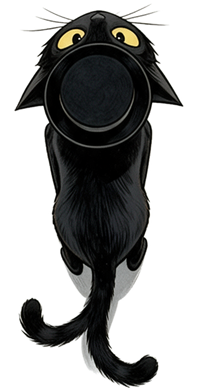
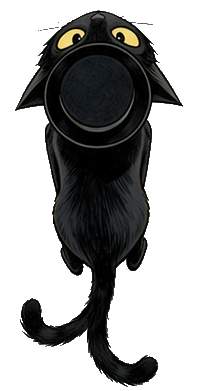
Quest 24: Runde 4: Glut mittig, Bossgröße stabil, Katze ein Schwanz, flüssigerer Kampf, animiertes Schlusslogo, dunklerer Abspann
Claude-Session: https://claude.ai/code/session_013ksHH1RN3knNHjnsFznGtM

diff --git a/battle.js b/battle.js
@@ -101,7 +101,7 @@ async function battle(F,key,tries){const ov=$('#battle');ov.innerHTML='';ov.clas
  if(F.phases&&B.phI){const f=B.foes.find(x=>x.boss);if(f)f.hp=Math.max(1,Math.ceil(F.phases[B.phI-1]*f.max)-2)}
  if(st.hero.skills.includes('waldsegen'))B.party.forEach(p=>p.hp=Math.min(p.max,p.hp+3));
  ov.innerHTML='<div class="bt-bg" style="background-image:url('+A+'img/'+F.bg+'.jpg)"></div><div class="bt-top"><div class="bt-t">'+esc(F.t)+'</div><div class="bt-r" id="bt-r"></div></div><div class="bt-foes" id="bt-foes"></div><div class="bt-log" id="bt-log"></div><div class="bt-party" id="bt-party"></div><div class="bt-act" id="bt-act"></div>';
- preloadSprites();sfx('schwert_ziehen');if(tries&&TIPS[key])blog('Tipp: '+TIPS[key],1);
+ preloadSprites();sfx('schwert_ziehen');setTimeout(()=>{if(B){B._fszLock=0;fitFoes(true);B._fszLock=1}},700);if(tries&&TIPS[key])blog('Tipp: '+TIPS[key],1);
  if(F.tut&&!st.flags.tut_done)await tutorial();
  while(true){B.round++;$('#bt-r').textContent='Runde '+B.round;planFoes();render();
   for(const u of B.party){if(u.hp<=0)continue;if(u.web){u.web=0;blog(u.n+' hängt im Netz fest und setzt aus.');render();await sleep(900);continue}
@@ -118,10 +118,22 @@ const TIPS={ratten:'Ratten haben wenig Lebenspunkte. Ein Treffer reicht oft.',mo
 function blog(t,tip){const l=$('#bt-log');if(!l)return;const p=el('div',tip?'tip':'',esc(t));l.prepend(p);while(l.children.length>3)l.lastChild.remove()}
 function planFoes(){B.foes.forEach(f=>{if(f.hp<=0)return;if(f.warned){f.intent=f.warned;f.warned=null;return}
  const a=f.acts[(B.round+f.i)%f.acts.length];if(a.warn&&!f.intent?.warn){f.intent={n:'holt aus',pre:a};f.warned=a;return}f.intent=a})}
-function render(){const fo=$('#bt-foes');fo.innerHTML='';fo.classList.toggle('many',B.foes.length>=3);B.foes.forEach(f=>{const d=el('div','bt-f'+(f.hp<=0?' down':'')+(f.boss?' boss':''),'<div class="bt-fi" style="background-image:url('+A+'img/'+f.img+'_'+(f.hp<=0?3:(f.fr||0))+'.png)"></div><div class="bt-hp"><i style="width:'+Math.max(0,f.hp/f.max*100)+'%"></i></div><div class="bt-fn">'+esc(f.n)+' <span class="el el-'+f.el+'"></span></div>'+(f.hp>0&&f.intent?'<div class="bt-int">'+esc(f.intent.pre?f.intent.pre.n+' kommt':f.intent.n)+'</div>':''));d.dataset.i=f.i;fo.appendChild(d)});
- fitFoes();const pa=$('#bt-party');pa.innerHTML='';const vw=Math.min(innerWidth,480);pa.style.setProperty('--pw',Math.round(Math.min(150,innerHeight*.17/1.35*1.35,(vw-16)/(B.party.length+(B.party.some(p=>p.id==='gr')?.25:0))*(B.party.length>2?1.18:1)-6))+'px');B.party.forEach((u,k)=>{const pose=u.hp<=0?3:(u.pose||0);const d=el('div','bt-u'+(u.id==='gr'?' big':'')+(u.id==='hu'||u.id==='zi'?' small':'')+(u.hp<=0?' down':'')+(B.cur===u?' cur':'')+(pose===1?' atk':'')+(pose===2?' hurt':''),'<div class="bt-sp" style="background-image:url('+spriteSrc(u,pose)+')"></div><div class="bt-hp p"><i style="width:'+Math.max(0,u.hp/u.max*100)+'%"></i></div><div class="bt-un"><span class="bt-mini" style="background-image:url('+(u.hero?heroImg():A+'img/p_'+u.id+'_'+(u.hp<=0?8:(u.face??0))+'.jpg')+')"></span>'+u.hp+'/'+u.max+'</div>');d.dataset.k=k;pa.appendChild(d)});markPick()}
+// Neuzeichnen ohne den DOM jedes Mal neu zu bauen: Elemente bleiben, nur Werte ändern sich (flüssiger auf dem Handy)
+function setBI(e,u){if(e._u!==u){e._u=u;e.style.backgroundImage='url('+u+')'}}
+function render(){const fo=$('#bt-foes');fo.classList.toggle('many',B.foes.length>=3);
+ B.foes.forEach(f=>{let d=fo.querySelector('.bt-f[data-i="'+f.i+'"]');
+  if(!d){d=el('div','bt-f'+(f.boss?' boss':''),'<div class="bt-fi"></div><div class="bt-hp"><i></i></div><div class="bt-fn">'+esc(f.n)+' <span class="el el-'+f.el+'"></span></div><div class="bt-int"></div>');d.dataset.i=f.i;fo.appendChild(d)}
+  d.classList.toggle('down',f.hp<=0);setBI(d.querySelector('.bt-fi'),A+'img/'+f.img+'_'+(f.hp<=0?3:(f.fr||0))+'.png');d.querySelector('.bt-hp i').style.width=Math.max(0,f.hp/f.max*100)+'%';
+  const it=d.querySelector('.bt-int');const txt=f.hp>0&&f.intent?(f.intent.pre?f.intent.pre.n+' kommt':f.intent.n):'';if(it.textContent!==txt)it.textContent=txt;it.style.display=txt?'':'none'});
+ fitFoes();const pa=$('#bt-party');const vw=Math.min(innerWidth,480);const pw=Math.round(Math.min(150,innerHeight*.17/1.35*1.35,(vw-16)/(B.party.length+(B.party.some(p=>p.id==='gr')?.25:0))*(B.party.length>2?1.18:1)-6))+'px';if(pa._pw!==pw){pa._pw=pw;pa.style.setProperty('--pw',pw)}
+ B.party.forEach((u,k)=>{const pose=u.hp<=0?3:(u.pose||0);let d=pa.querySelector('.bt-u[data-k="'+k+'"]');
+  if(!d){d=el('div','bt-u'+(u.id==='gr'?' big':'')+(u.id==='hu'||u.id==='zi'?' small':''),'<div class="bt-sp"></div><div class="bt-hp p"><i></i></div><div class="bt-un"><span class="bt-mini"></span><b></b></div>');d.dataset.k=k;pa.appendChild(d)}
+  d.classList.toggle('down',u.hp<=0);d.classList.toggle('cur',B.cur===u);d.classList.toggle('atk',pose===1);d.classList.toggle('hurt',pose===2);
+  setBI(d.querySelector('.bt-sp'),spriteSrc(u,pose));d.querySelector('.bt-hp i').style.width=Math.max(0,u.hp/u.max*100)+'%';
+  setBI(d.querySelector('.bt-mini'),u.hero?heroImg():A+'img/p_'+u.id+'_'+(u.hp<=0?8:(u.face??0))+'.jpg');const t=u.hp+'/'+u.max;const bb=d.querySelector('.bt-un b');if(bb.textContent!==t)bb.textContent=t});markPick()}
 // Rückansicht im Kampf: 0 bereit, 1 Angriff, 2 getroffen, 3 besiegt
-function fitFoes(){const fo=$('#bt-foes');if(!fo)return;const n=Math.max(1,B.foes.length);const h=fo.clientHeight,w=fo.clientWidth;if(!h)return;const byH=h-86,byW=(w-12)/n*.92;const big=n===1&&B.foes[0].boss;fo.style.setProperty('--fsz',Math.round(Math.max(80,Math.min(byH,big?(w-8)*.98:byW,big?420:300)))+'px')}
+function fitFoes(force){const fo=$('#bt-foes');if(!fo)return;if(B&&B._fszLock&&B._fsz&&!force&&B._fszN===B.foes.length){fo.style.setProperty('--fsz',B._fsz);return}const n=Math.max(1,B.foes.length);const h=fo.clientHeight,w=fo.clientWidth;if(!h)return;const byH=h-86,byW=(w-12)/n*.92;const big=n===1&&B.foes[0].boss;const v=Math.round(Math.max(80,Math.min(byH,big?(w-8)*.98:byW,big?420:300)))+'px';fo.style.setProperty('--fsz',v);if(B){B._fsz=v;B._fszN=B.foes.length}}
+addEventListener('resize',()=>{if(B)fitFoes(true)});
 function spriteSrc(u,p){return A+'img/b_'+(u.hero?st.hero.cls+'_'+st.hero.look:u.id)+'_'+p+'.png'}
 function poseFor(u,p,ms){u.pose=p;clearTimeout(u._pt);if(B)render();u._pt=setTimeout(()=>{u.pose=0;if(B)render()},ms)}
 const PRE=[];function preImg(src){const i=new Image();i.decoding='async';i.src=src;PRE.push(i);if(PRE.length>200)PRE.shift()}

diff --git a/bossgames.js b/bossgames.js
@@ -80,9 +80,9 @@ GAMES.p_schatten=()=>new Promise(async done=>{const W3=phWho(3);const fast=W3.ri
  const IW=PS_IMG[0],IH=PS_IMG[1];const P=PS_PATH;const L=[0];for(let i=1;i<P.length;i++)L.push(L[i-1]+Math.hypot((P[i][0]-P[i-1][0])*IW,(P[i][1]-P[i-1][1])*IH));const TOT=L[L.length-1];
  const map=(u,v)=>{const W=o.clientWidth,H=o.clientHeight,sc=Math.max(W/IW,H/IH);return [(W-IW*sc)/2+u*IW*sc,(H-IH*sc)/2+v*IH*sc,sc]};
  const at=q=>{const d=q*TOT;let i=1;while(i<L.length-1&&L[i]<d)i++;const f=(d-L[i-1])/(L[i]-L[i-1]||1);const u=P[i-1][0]+(P[i][0]-P[i-1][0])*f,v=P[i-1][1]+(P[i][1]-P[i-1][1])*f;const ang=Math.atan2((P[i][1]-P[i-1][1])*IH,(P[i][0]-P[i-1][0])*IW)*180/Math.PI;return [u,v,ang]};
- const top=W3.w==='na';const cat=el('div','ps2-cat'+(top?' top':''),'<img src="'+A+'img/'+(top?'na_top':'r_'+(W3.w==='held'?st.hero.cls+'_'+st.hero.look:W3.w)+'_0')+'.png" alt="">');o.appendChild(cat);const ci=cat.firstChild;
+ const top=W3.w==='na';const csrc=A+'img/'+(top?'na_top':'r_'+(W3.w==='held'?st.hero.cls+'_'+st.hero.look:W3.w)+'_0')+'.png';const cat=el('div','ps2-cat'+(top?' top':''),top?'<div class="ps2-c"><img class="t" src="'+csrc+'" alt=""><img class="b" src="'+csrc+'" alt=""></div>':'<div class="ps2-c"><img src="'+csrc+'" alt=""></div>');o.appendChild(cat);const ci=cat.firstChild;
  const goal=el('div','ps2-goal');o.appendChild(goal);const alarm=el('div','ps2-alarm','');o.appendChild(alarm);
- const WALK=[0,1,2,3].map(i=>A+'img/na_walk_'+i+'.png');let walkOk=false;if(top){const ti=new Image();ti.onload=()=>{walkOk=true;WALK.slice(1).forEach(u=>{const x=new Image();x.src=u})};ti.src=WALK[0]}
+
  const eg=o.querySelector('.ps2-eyeglow');
  const place=()=>{const [x,y]=map(PS_EYE[0],PS_EYE[1]);eg.style.left=x+'px';eg.style.top=y+'px';const g=map(P[P.length-1][0],P[P.length-1][1]);goal.style.left=g[0]+'px';goal.style.top=g[1]+'px'};place();addEventListener('resize',place);
  const btn=el('div','ps2-hold','Gedrückt halten zum Schleichen');o.appendChild(btn);
@@ -92,10 +92,10 @@ GAMES.p_schatten=()=>new Promise(async done=>{const W3=phWho(3);const fast=W3.ri
   if(state==='zu'&&el0>dur){state='warn';tState=t;o.classList.add('warn');sfx('drachenknurren',.8);alarm.textContent='Er regt sich …';try{navigator.vibrate&&navigator.vibrate(80)}catch(e){}}
   else if(state==='warn'&&el0>.9/fast){state='auf';tState=t;o.classList.remove('warn');o.classList.add('auf');sfx('drache',.5);alarm.textContent='Auge auf! Nicht bewegen!';try{navigator.vibrate&&navigator.vibrate([60,40,60])}catch(e){}}
   else if(state==='auf'&&el0>1.4){state='zu';tState=t;dur=(1.6+Math.random()*1.8)/fast;o.classList.remove('auf');alarm.textContent=''}
-  if(hold){pos+=dt*.075;fr++;if(walkOk&&fr%7===0)ci.src=WALK[(fr/7|0)%4];
+  if(hold){pos+=dt*.075;fr++;
    if(state==='auf'){caught++;hold=false;btn.classList.remove('on');pos=Math.max(0,pos-.15);sfx('katze',.6);toast(['Erwischt! Zurück in den Schatten.','Fast! Noch mal leise.','Er blinzelt nur. Weiter.'][Math.min(2,caught-1)],1400);o.classList.add('hit');setTimeout(()=>o.classList.remove('hit'),400)}}
   pos=Math.min(1,pos);const [u,v,ang]=at(pos);const [x,y,sc]=map(u,v);const sz=Math.max(72,Math.min(110,IW*sc*.1));
-  cat.style.width=sz+'px';cat.style.transform='translate('+x+'px,'+y+'px) translate(-50%,-50%) rotate('+(top?ang+90:0)+'deg)';ci.style.transform=hold?'translateX('+(Math.sin(fr*.25)*2)+'px) rotate('+(Math.sin(fr*.25)*4)+'deg)':'none';if(!hold&&walkOk&&ci.src!==WALK[1]&&state!=='zu')ci.src=WALK[1];
+  cat.style.width=sz+'px';cat.style.transform='translate('+x+'px,'+y+'px) translate(-50%,-50%) rotate('+(top?ang+90:0)+'deg)';cat.classList.toggle('walk',hold);
   cat.classList.toggle('hide',!hold&&state!=='zu');bar(o,'Weg zum Herzen',pos);
   if(pos>=1){run=false;removeEventListener('pointerup',up);removeEventListener('pointercancel',up);removeEventListener('resize',place);phEnd(o,'Geschafft. Der Schattenschlüssel öffnet die Kruste über dem Herzen.').then(()=>done(Math.max(.3,1-caught*.2)));return}
   requestAnimationFrame(tick)};requestAnimationFrame(tick)});

diff --git a/style.css b/style.css
@@ -920,3 +920,36 @@ img{display:block;max-width:100%}
 .logo-end.gone{opacity:0}
 @keyframes logoIn{0%{opacity:0;transform:scale(.86)}35%{opacity:1}100%{opacity:1;transform:scale(1)}}
 @keyframes fadeInL{to{opacity:1}}
+/* Nachtigall von oben: Körper und Schwanz getrennt, der Schwanz pendelt beim Schleichen */
+.ps2-c{position:relative}
+.ps2-cat img{display:block;width:100%}
+.ps2-cat.top .ps2-c img{position:absolute;left:0;top:0}
+.ps2-cat.top .ps2-c{aspect-ratio:154/299}
+.ps2-cat.top img.b{clip-path:inset(0 0 37% 0)}
+.ps2-cat.top img.t{clip-path:inset(60% 0 0 0);transform-origin:50% 62%;animation:psTail 2.4s ease-in-out infinite}
+.ps2-cat.walk.top img.t{animation-duration:.9s}
+.ps2-cat.walk .ps2-c{animation:psStep .45s ease-in-out infinite}
+@keyframes psTail{0%,100%{transform:rotate(-10deg)}50%{transform:rotate(12deg)}}
+@keyframes psStep{0%,100%{transform:translateX(-1.5px) rotate(-3deg)}50%{transform:translateX(1.5px) rotate(3deg)}}
+.ps2-cat .ps2-c{filter:drop-shadow(0 0 2px #fff) drop-shadow(0 0 3px rgba(255,240,200,.9)) drop-shadow(0 6px 6px rgba(0,0,0,.85))}
+.ps2-cat img{filter:none!important}
+/* Animiertes Logo am Schluss */
+.logo-end{overflow:hidden}
+.logo-end .le-lg{width:min(90vw,480px);opacity:0;transform:scale(.8) translateY(10px);animation:leIn 1.6s cubic-bezier(.2,1,.3,1) .2s forwards;filter:drop-shadow(0 0 0 rgba(255,190,80,0)) drop-shadow(0 8px 14px #000);transition:filter 1.2s}
+.logo-end.lit .le-lg{filter:drop-shadow(0 0 26px rgba(255,190,80,.7)) drop-shadow(0 8px 14px #000)}
+.logo-end .lg-fl,.logo-end .lg-glow{opacity:0;transition:opacity .6s}
+.logo-end.lit .lg-fl,.logo-end.lit .lg-glow{opacity:1}
+.logo-end .lg-dr{opacity:0;animation:leDr 1.4s ease .9s forwards,drbreath 3.6s ease-in-out 2.3s infinite}
+@keyframes leIn{to{opacity:1;transform:scale(1) translateY(0)}}
+@keyframes leDr{from{opacity:0;transform:scale(.92)}to{opacity:1;transform:scale(1)}}
+.le-rays{position:absolute;left:50%;top:45%;width:240vmax;height:240vmax;translate:-50% -50%;background:repeating-conic-gradient(from 0deg,rgba(255,206,110,.22) 0 6deg,transparent 6deg 18deg);-webkit-mask-image:radial-gradient(circle,#000 0,#000 6%,transparent 34%);mask-image:radial-gradient(circle,#000 0,#000 6%,transparent 34%);opacity:0;transition:opacity 1.6s;animation:ttlspin 40s linear infinite}
+.logo-end.lit .le-rays{opacity:1}
+.le-emb{position:absolute;inset:0;pointer-events:none}
+.le-emb i{position:absolute;bottom:-10px;border-radius:50%;background:#ffcf6a;box-shadow:0 0 8px #ff9a2a,0 0 2px #fff;animation:ember 4s linear infinite}
+.logo-end p{position:relative}
+/* Bilder hinter dem Abspann dunkler, damit die Schrift hervorsticht */
+.credits{background:rgba(0,0,0,.58)}
+.logo-end .lg img{max-width:none;filter:none}
+.logo-end .lg .lg-base{width:100%;animation:none}
+.logo-end .lg .lg-dr{width:100%}
+.logo-end .lg .lg-fl{width:8.9%;animation:lgflick 1.3s ease-in-out infinite}

diff --git a/index.html b/index.html
@@ -8,7 +8,7 @@
 <meta name="robots" content="noindex">
 <link rel="preconnect" href="https://fonts.googleapis.com"><link rel="preconnect" href="https://fonts.gstatic.com" crossorigin>
 <link href="https://fonts.googleapis.com/css2?family=Grenze+Gotisch:wght@500;700;800&family=Alegreya:ital,wght@0,400;0,500;0,700;1,400&family=Alegreya+SC:wght@500;700&display=swap" rel="stylesheet">
-<link rel="stylesheet" href="style.css?v=1794095583">
+<link rel="stylesheet" href="style.css?v=1794097808">
 </head>
 <body>
 
@@ -58,23 +58,23 @@
 <div id="sheet" class="ovl sheet"></div>
 <div id="toast" class="toast"></div>
 
-<script src="gate.js?v=1794095583"></script>
-<script src="engine.js?v=1794095583"></script>
-<script src="scene.js?v=1794095583"></script>
-<script src="dice.js?v=1794095583"></script>
-<script src="items.js?v=1794095583"></script>
-<script src="battle.js?v=1794095583"></script>
-<script src="ui.js?v=1794095583"></script>
-<script src="slyr.js?v=1794095583"></script>
-<script src="games.js?v=1794095583"></script>
-<script src="bossgames.js?v=1794095583"></script>
-<script src="films.js?v=1794095583"></script>
-<script src="days1.js?v=1794095583"></script>
-<script src="days2.js?v=1794095583"></script>
-<script src="days3.js?v=1794095583"></script>
-<script src="days4.js?v=1794095583"></script>
-<script src="hero.js?v=1794095583"></script>
-<script src="komplize.js?v=1794095583"></script>
-<script src="main.js?v=1794095583"></script>
+<script src="gate.js?v=1794097808"></script>
+<script src="engine.js?v=1794097808"></script>
+<script src="scene.js?v=1794097808"></script>
+<script src="dice.js?v=1794097808"></script>
+<script src="items.js?v=1794097808"></script>
+<script src="battle.js?v=1794097808"></script>
+<script src="ui.js?v=1794097808"></script>
+<script src="slyr.js?v=1794097808"></script>
+<script src="games.js?v=1794097808"></script>
+<script src="bossgames.js?v=1794097808"></script>
+<script src="films.js?v=1794097808"></script>
+<script src="days1.js?v=1794097808"></script>
+<script src="days2.js?v=1794097808"></script>
+<script src="days3.js?v=1794097808"></script>
+<script src="days4.js?v=1794097808"></script>
+<script src="hero.js?v=1794097808"></script>
+<script src="komplize.js?v=1794097808"></script>
+<script src="main.js?v=1794097808"></script>
 </body>
 </html>

diff --git a/films.js b/films.js
@@ -22,7 +22,9 @@ async function playFilm(key){const F=FILMS[key];if(!F)return;stopSfx(.4);show('#
    await Promise.race([p,new Promise(r=>{const iv=setInterval(()=>{if(skip||run!==filmRun){clearInterval(iv);r()}},300)})]);clearInterval(at);
    // Überblendung auf das Logo
    cr.classList.add('out');[...f.children].forEach(x=>{if(x!==cr)x.classList.remove('on')});await sleep(1200);cr.remove();
-   if(run===filmRun){const lg=el('div','fs on logo-end','<img src="'+A+'ui/logo.png" alt="Quest 24"><p>Frohe Lichternacht</p>');f.appendChild(lg);sfx('licht_an',.7);await sleep(skip?1200:5200);lg.classList.add('gone');await sleep(1400)}
+   if(run===filmRun){const lg=el('div','fs on logo-end','<div class="le-rays"></div><div class="le-emb"></div><div class="lg le-lg"><img class="lg-base" src="'+A+'ui/logo_leer.png" alt=""><img class="lg-dr" src="'+A+'ui/logo_drache.png" alt=""><i class="lg-glow"></i><img class="lg-fl" src="'+A+'ui/flamme.png" alt=""></div><p>Frohe Lichternacht</p>');f.appendChild(lg);
+    const em=lg.querySelector('.le-emb');for(let i=0;i<30;i++){const e=el('i','');e.style.left=Math.random()*100+'%';e.style.animationDelay=(Math.random()*4)+'s';e.style.animationDuration=(3+Math.random()*3)+'s';const z=2+Math.random()*4;e.style.width=e.style.height=z+'px';em.appendChild(e)}
+    sfx('trommel',.6);setTimeout(()=>{sfx('feuer_entfacht',.7);lg.classList.add('lit')},1300);await sleep(skip?1500:6500);lg.classList.add('gone');await sleep(1400)}
    continue}
   if(sh.black){[...f.children].forEach(x=>x.classList.remove('on'))}
   if(sh.t){n++;const male=sh.tm&&st.hero&&!st.hero.f;const vo=A+'vo/f_'+key+'_'+String(n).padStart(3,'0')+(male?'m':'')+'.mp3';const who=WHO[sh.s]||WHO.SL;
